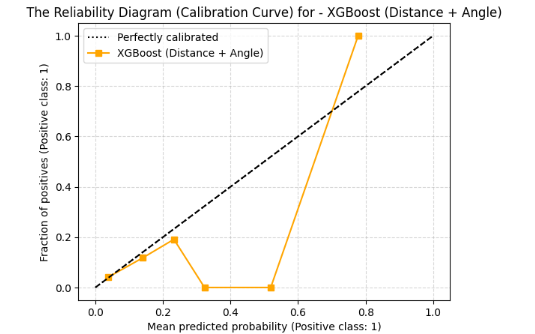
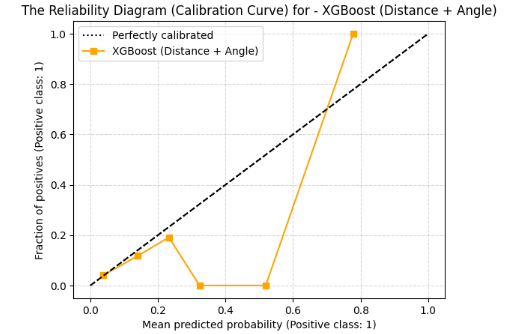
11.14.2025 Blog version 4

diff --git a/src/myblog/_posts/2025-11-07-nhl-play-by-play-analysis milestone 2.md b/src/myblog/_posts/2025-11-07-nhl-play-by-play-analysis milestone 2.md
@@ -249,7 +249,7 @@ Note in section 5 in order to ensure testing could be completed in a timely mann
 ![Baseline XGBoost (AUC)]({{ site.baseurl }}/assets/images/image-40.png)
 ![Baseline XGBoost Goal Rate Curve]({{ site.baseurl }}/assets/images/image-41.png)
 ![Baseline XGBoost Cumulative Goal Rate Curve]({{ site.baseurl }}/assets/images/image-42.png)
-![Baseline XGBoost Reliability Curve]({{ site.baseurl }}/assets/images/image-43)
+![Baseline XGBoost Reliability Curve]({{ site.baseurl }}/assets/images/image-43.png)
 
 **WandB Run:** [View Baseline XGBoost Experiment]( https://wandb.ai/IFT6758-2025-B08/IFT6758-Milestone2/runs/funh0so2)
 
@@ -261,75 +261,36 @@ With respect to the Goal Rate and Cumulative Goal curve, the general monotonical
 
 ### Q2 — XGBoost with All Features and Hyperparameter Tuning
 
-We next trained an **XGBoost classifier** using all engineered features (26 total) and applied **GridSearchCV** for fine-tuned optimization.
-
-**Dataset dimensions:**
-- Training: (1,319,337 × 26)
-- Validation: (329,835 × 26)
+We next trained an **XGBoost classifier** using all 22 engineered tidy updated features and applied **GridSearchCV** for fine-tuned optimization, and evaluated the tuned Hyperparameters on the validation set.
 
 **Grid Search Parameters:**
 
 | Hyperparameter | Tested Range |
 |----------------|---------------|
 | `learning_rate` | [0.01, 0.05, 0.1] |
-| `max_depth` | [5, 7] |
-| `n_estimators` | [100, 200] |
-| `colsample_bytree` | [0.8] |
-| `subsample` | [0.8] |
-| `min_child_weight` | [1] |
+| `max_depth` | [1, 3, 5] |
+| `n_estimators` | [100, 200, 300] |
+| `eval_metric` | [logloss, auc] |
 
 **Best Configuration:**
-colsample_bytree = 0.8
 learning_rate = 0.05
 max_depth = 5
-min_child_weight = 1
-n_estimators = 200
-subsample = 0.8
-Best CV AUC = 0.7576
-Validation AUC = 0.7577
-Validation Accuracy = 0.9083
+n_estimators = 100
+eval_metric = logloss
 
+**Best Cross Validation Accuracy**: 0.8214590354826432
 
-This model showed strong generalization while avoiding overfitting at higher tree depths.
+**WandB Run:** [View XGBoost Optimal Parameters](https://wandb.ai/IFT6758-2025-B08/IFT6758-Milestone2/runs/eqp4hfry)
 
-![Performance vs Model Complexity]({{ site.baseurl }}/assets/images/performance_model_complexity.jpg)
+![Optimal Parameters XGBoost (AUC)]({{ site.baseurl }}/assets/images/image-44.png)
 
+![Optimal Parameters XGBoost Goal Rate Curve]({{ site.baseurl }}/assets/images/image-45.png)
 
+![Optimal Parameters XGBoost Cumulative Goal Curve]({{ site.baseurl }}/assets/images/image-46.png)
 
-### Probability Calibration and Reliability
+![Optimal Parameters XGBoost Cumulative Goal Curve]({{ site.baseurl }}/assets/images/image-47.png)
 
-After tuning, the model’s output probabilities were **calibrated using Isotonic Regression**.  
-Calibration helps ensure that the predicted probabilities better represent true likelihoods.
-- **Baseline AUC:** ~0.71  
-- **Optimized AUC:** ~0.7576  
-- Improved discrimination and more stable probability outputs were observed.
-
-![Calibration Plot for XGBoost]({{ site.baseurl }}/assets/images/q3_calibration.jpg)
-![Reliability Curve (XGBoost - Q1)]({{ site.baseurl }}/assets/images/reliability_curve_xgb_q1.jpg)
-
-> A well-calibrated model ensures that when it predicts a 0.7 goal probability, it truly reflects a 70% real-world goal rate.
-
----
-
-### ROC Comparison Across Models
-
-We compared ROC curves across all models — Logistic Regression, Neural Network, and XGBoost.  
-The **tuned XGBoost** consistently dominates the upper-left quadrant, confirming its superior ability to distinguish between goals and no-goals.
-
-![ROC Comparison]({{ site.baseurl }}/assets/images/roc_comparison.jpg)
-
-**Performance Comparison:**
-
-| Metric | Logistic Regression | Neural Network | XGBoost (Tuned) |
-|---------|----------------------|----------------|-----------------|
-| **Accuracy** | 0.785 | 0.791 | 0.908 |
-| **AUC** | 0.702 | 0.734 | 0.758 |
-| **Precision** | 0.16 | 0.19 | 0.21 |
-| **Recall** | 0.39 | 0.45 | 0.47 |
-| **F1 Score** | 0.23 | 0.27 | 0.29 |
-
-**WandB Run:** [View Tuned XGBoost Experiment](https://wandb.ai/IFT6758-2025-B08/IFT6758-Milestone2/runs/66fc753h)
-
+After hyperparameter tuning, we can see that the best cross validation AUC for XGBoost is 0.82, far better than that of any of the Logistic Regression baseline models and the XGBoost baseline. Moreover, the hyperparameter tuned XGBoost with optimized selected features has a signficantly better AUC curve of 0.811 than the XGBoost and Logistic Regression baselines. In addition, the Goal Rate curve, Cumulative Goal curve, and Calibration curve all further show trends and figures that are better predictors for exepected goals than the baseline XGBoost and Logistic Regression models. This indicates that post hyperparameter tuning, if we optimized learning rate, max_depth, n_estimators, and eval_metric then we can see that the XGBoost will be a better classifier for expected goals. 
 
 ### Q3 — Feature Selection and Model Simplification
 
